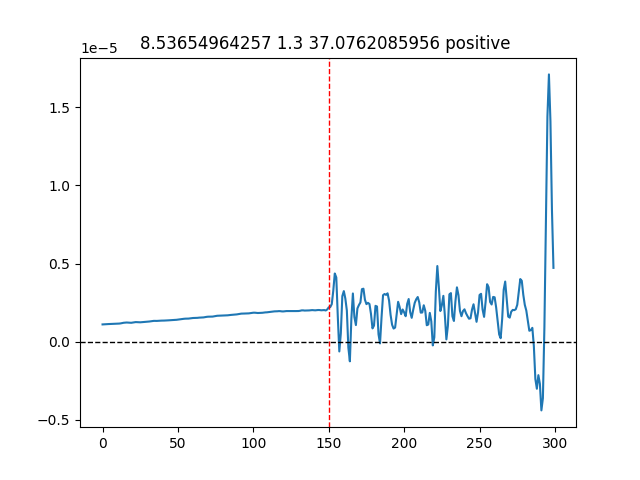
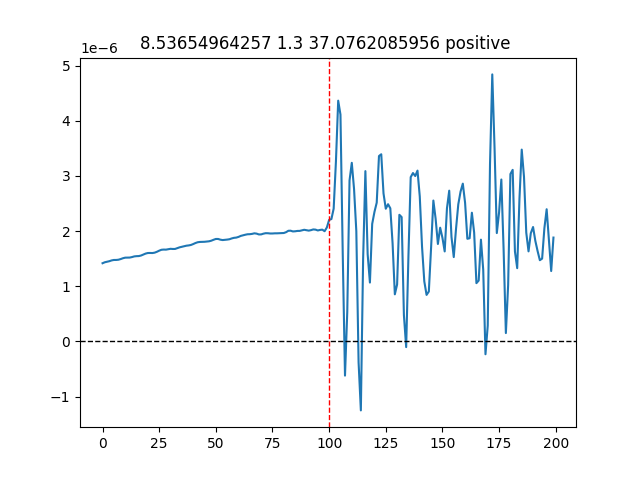
oo,

diff --git a/Codici/Drive_sismogramma_linux.py b/Codici/Drive_sismogramma_linux.py
@@ -171,7 +171,7 @@ csv = '/home/silvia/Desktop/Sample_dataset/_Mio/metadata_Instance_events_10k.csv
 
 Dataset = ClasseDataset()
 Dataset.leggi_custom_dataset(hdf5, csv)
-semiampiezza_ = 150
+semiampiezza_ = 100
 cartella = '/home/silvia/Desktop/'
 
 vettore_indici = [62, 632, 7299, 1022, 9037]
